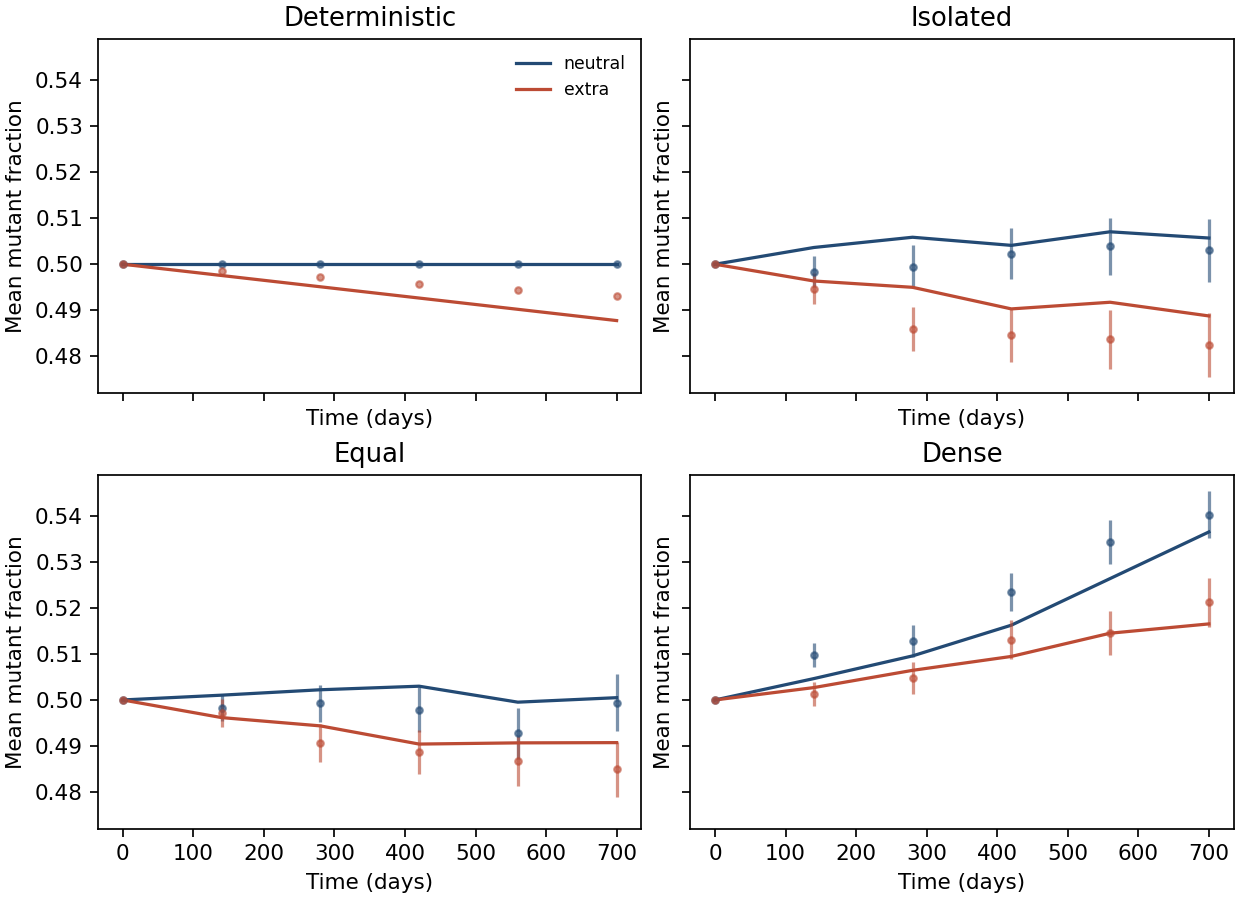
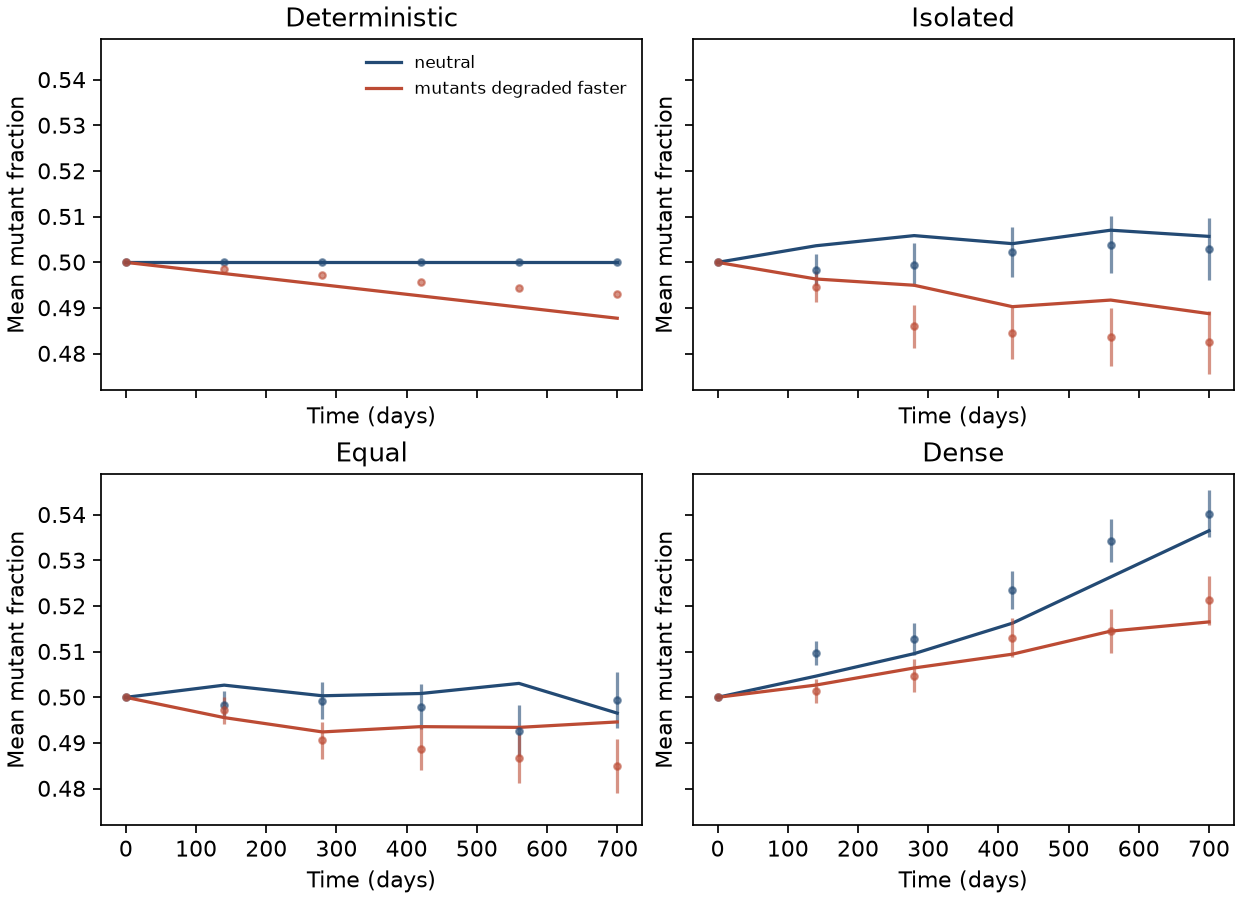
Use Nss 150 for the equal-density Figure 1C condition
The archive headers give delta and the hop rate but not Nss. With Nss 200
and 100/100 copies the fresh per-region standard error at day 700 is
15% below the archived one; with Nss 150 and 75/75 copies all four
ratios lie within 2% (review experiment E1/E2). The draft Figure 1C
results are regenerated (equal density neutral 0.49654, contrast
0.0400, lower bound 0.0161); the other conditions are unchanged. The
legend names the faster mutant degradation.

Claude-Session: https://claude.ai/code/session_01Sh6qH1Noyv64tC6dGfSU2Q

diff --git a/examples/mtdna_spread/study.py b/examples/mtdna_spread/study.py
@@ -12,10 +12,14 @@ from scipy.stats import norm
 
 ROOT = Path(__file__).resolve().parent
 MANIFEST = json.loads((ROOT / "manifest.json").read_text())
+# Regions, Nss, delta and hop rate per directed edge (per copy and day). The
+# archive headers give delta and the hop rate; Nss = 150 in every panel is a
+# reconstruction choice (the per-region spread at day 700 matches the archive).
+# Each region starts at h = 0.5 on its steady state W + delta * M = Nss.
 CONDITIONS = {
-    "deterministic": (2, 150, 0.5, 0.0007),
+    "deterministic": (2, 150, 0.5, 0.0),
     "isolated": (1, 150, 0.5, 0.0),
-    "equal": (2, 200, 1.0, 0.035),
+    "equal": (2, 150, 1.0, 0.035),
     "dense": (2, 150, 0.5, 0.035),
 }
 
@@ -128,8 +132,9 @@ def figure1(size, threads):
                 h = 1 / (1 + np.exp(extra * times))
                 err, empty, actual = np.zeros_like(h), np.zeros_like(h), 0
             else:
+                half = round(copies / (1 + delta))
                 p = paths(
-                    [(100, 100)] * regions,
+                    [(half, half)] * regions,
                     (copies, delta, hop),
                     times,
                     n,
@@ -314,7 +319,12 @@ def plot(results, folder, output):
     ):
         for kind, color in (("neutral", "#234a74"), ("extra", "#bc4b34")):
             data = group[group.degradation == kind]
-            ax.plot(data.day, data["mean"], color=color, label=kind)
+            ax.plot(
+                data.day,
+                data["mean"],
+                color=color,
+                label="neutral" if kind == "neutral" else "mutants degraded faster",
+            )
             ax.errorbar(
                 data.day,
                 data.mean_reference,
